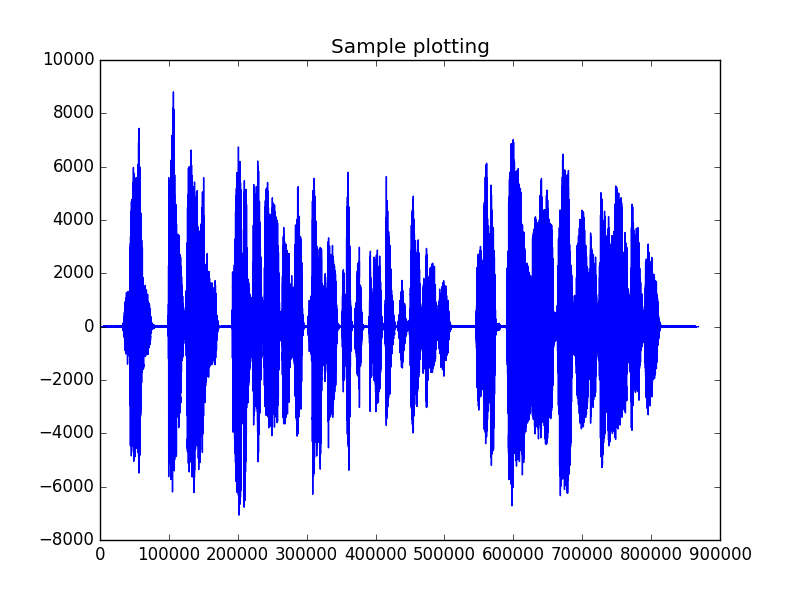
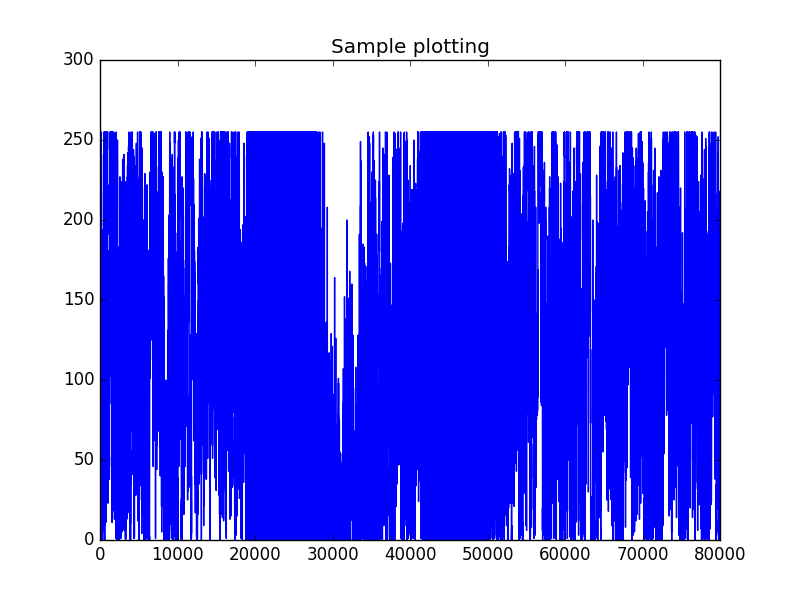
Using scipy io module. Scaled the axes for spectogram

diff --git a/beginner.py b/beginner.py
@@ -4,79 +4,84 @@ import wave
 import numpy as np
 import matplotlib
 import matplotlib.pyplot as plt
-# import librosa as librosa
+import scipy.io.wavfile as sciwav
 ### Input section
 
 #getting the wave_read object
-raw=wave.open(sys.argv[1],'r') #myvoice.wav has sampling rate of 16K Hz
+raw=wave.open(sys.argv[1],'r')
+nchannels,sampwidth,sampling_rate,total_frames,comptype,compname=raw.getparams()
+sampling_rate,data=sciwav.read(sys.argv[1])
+print "The size of the raw data: ",data.shape
+if nchannels==1:
+    signal=data
+else:
+    signal=data[:,0] #taking one of the channels.
+# signal=raw.readframes(-1)
 
-#reading all the frames. -1 indicates the end of file.
-signal=raw.readframes(-1)
-
-#Converting from string to integers.
-signal=np.fromstring(signal,'Int16')
-np.set_printoptions(threshold='nan') #for printing the whole array, so that it doesn't truncate the array simply.
-
-#raw has the wave_read object and signal is the numpy array for values
-
-#printing the signal values, as an array and checking its linearity
-#print signal
+###TEST REGION
+# output=wave.open('briantest.wav','w')
+# output.setnchannels(1)
+# output.setsampwidth(2)
+# output.setframerate(44100)
+# output.writeframes(signal)
+#Converting from string to integers. Required if we use wave library
+# signal=np.fromstring(signal,'Int16')
 # print signal.shape
+#raw has the wave_read object and signal is the numpy array for values
 
 ### Plotting the signal, using numpy array
 plt.title('Sample plotting')
 plt.plot(signal)
 plt.savefig('beginner.png')
 plt.close()
+
 ### Section for calculations, like FFT and MFCC
 
 #some definitions
-sampling_rate=raw.getframerate() #getting the samplin rate
-total_frames=raw.getnframes() #gives the total number of frames
 duration=2.5e-2 #25ms is defined to be the duration for FFT
 shift_interval=1e-2 #10ms is defined to be the shift interval, for the windows.
-
-#verifying the sampling rate
-print "The sampling rate: ",sampling_rate
-
 samples=int(sampling_rate*duration) #These are the number of array entries that we'll use to find the FFT
 skip_entries=int(sampling_rate*shift_interval) #These entries are going to be skipped.
 
 
-print "Number of data points in a frame: ",samples #displaying how many data points we are going to take
-print "Total data points: ",total_frames
-
-#finding the number of rows and columns of the FFT matrix
 #number of rows is essentially the dim of FFT space
 #number of columns is the number of frames that are going to be captured.
-length_transformed=int(pow(2,int(math.log(samples,2))+1))
-columns=int(math.ceil(total_frames/samples))
-fft_matrix=np.empty([length_transformed,columns],dtype=np.complex_) #defining the numpy object of required dim
+nfft=int(pow(2,int(math.log(samples,2))+1)) #These are the number of space points in FFT
+#FFT is symmetric about Space points by 2, because of "2" factor that comes in the FFT formula.
+columns=int(math.ceil(total_frames/skip_entries))
+fft_matrix=np.empty([nfft,columns],dtype=np.complex_) #defining the numpy object of required dim
 
+
+print "The sampling rate: ",sampling_rate
+print "Number of data points in a frame: ",samples #displaying how many data points we are going to take
+print "Total data points: ",total_frames #This denotes the number of total data collected, ie all the pressure variations recorded.
 print "Number of frames required: ",columns
 
 
-#running the loop for finding the FFT Matrix
 for iterator in range(0,columns):
     vector_for_fft=signal[iterator*skip_entries:min(total_frames,samples+skip_entries*iterator)]
-    # print vector_for_fft
     hammer_size=vector_for_fft.shape[0]
-    # print iterator,hammer_size
     hamming_vector=np.hamming(hammer_size)
     hammed_vector=np.multiply(hamming_vector,vector_for_fft)
-    fft_vector=np.fft.fft(hammed_vector,length_transformed)
+    fft_vector=np.fft.fft(hammed_vector,nfft)
     fft_matrix[:,iterator]=fft_vector
 
 #Checking the matrix shape that we have
 # print fft_matrix.shape 
 
+#creating the vector for mapping column to time, in the original signal.
+xlim=columns*duration/2
+ylim=sampling_rate/2
+xtics=np.linspace(0,xlim,columns)
+ytics=np.linspace(0,ylim,int(nfft/2))
 plt.clf() #clearing the previous plot
-# plt.figure(figsize=(5,5))
-plt.xlim(0,columns)
-plt.imshow(abs(fft_matrix),cmap="binary",aspect="auto") #for complex values, abs returns the mag of the number
-# plt.title("First column of the FFT Matrix")
-# plt.xlabel("FFT Space Point")
-# plt.ylabel("FFT Coefficient")
+# ax=plt.gca()
+# ax.set_xticklabels(xtics)
+np.set_printoptions(precision=2)
+plt.imshow(20*np.log10(abs(fft_matrix[0:int(nfft/2),:])),cmap="binary",aspect="auto",extent=[0,xlim,0,ylim]) #for complex values, abs returns the mag of the number
+plt.title("Spectogram")
+plt.xlabel("Time from Start")
+plt.ylabel("Frequency [Hz]")
+plt.colorbar()
 # plt.show()
 plt.savefig('spectrogram.png')
-# print librosa.feature.mfcc(y=signal) #for checking the mfcc's
